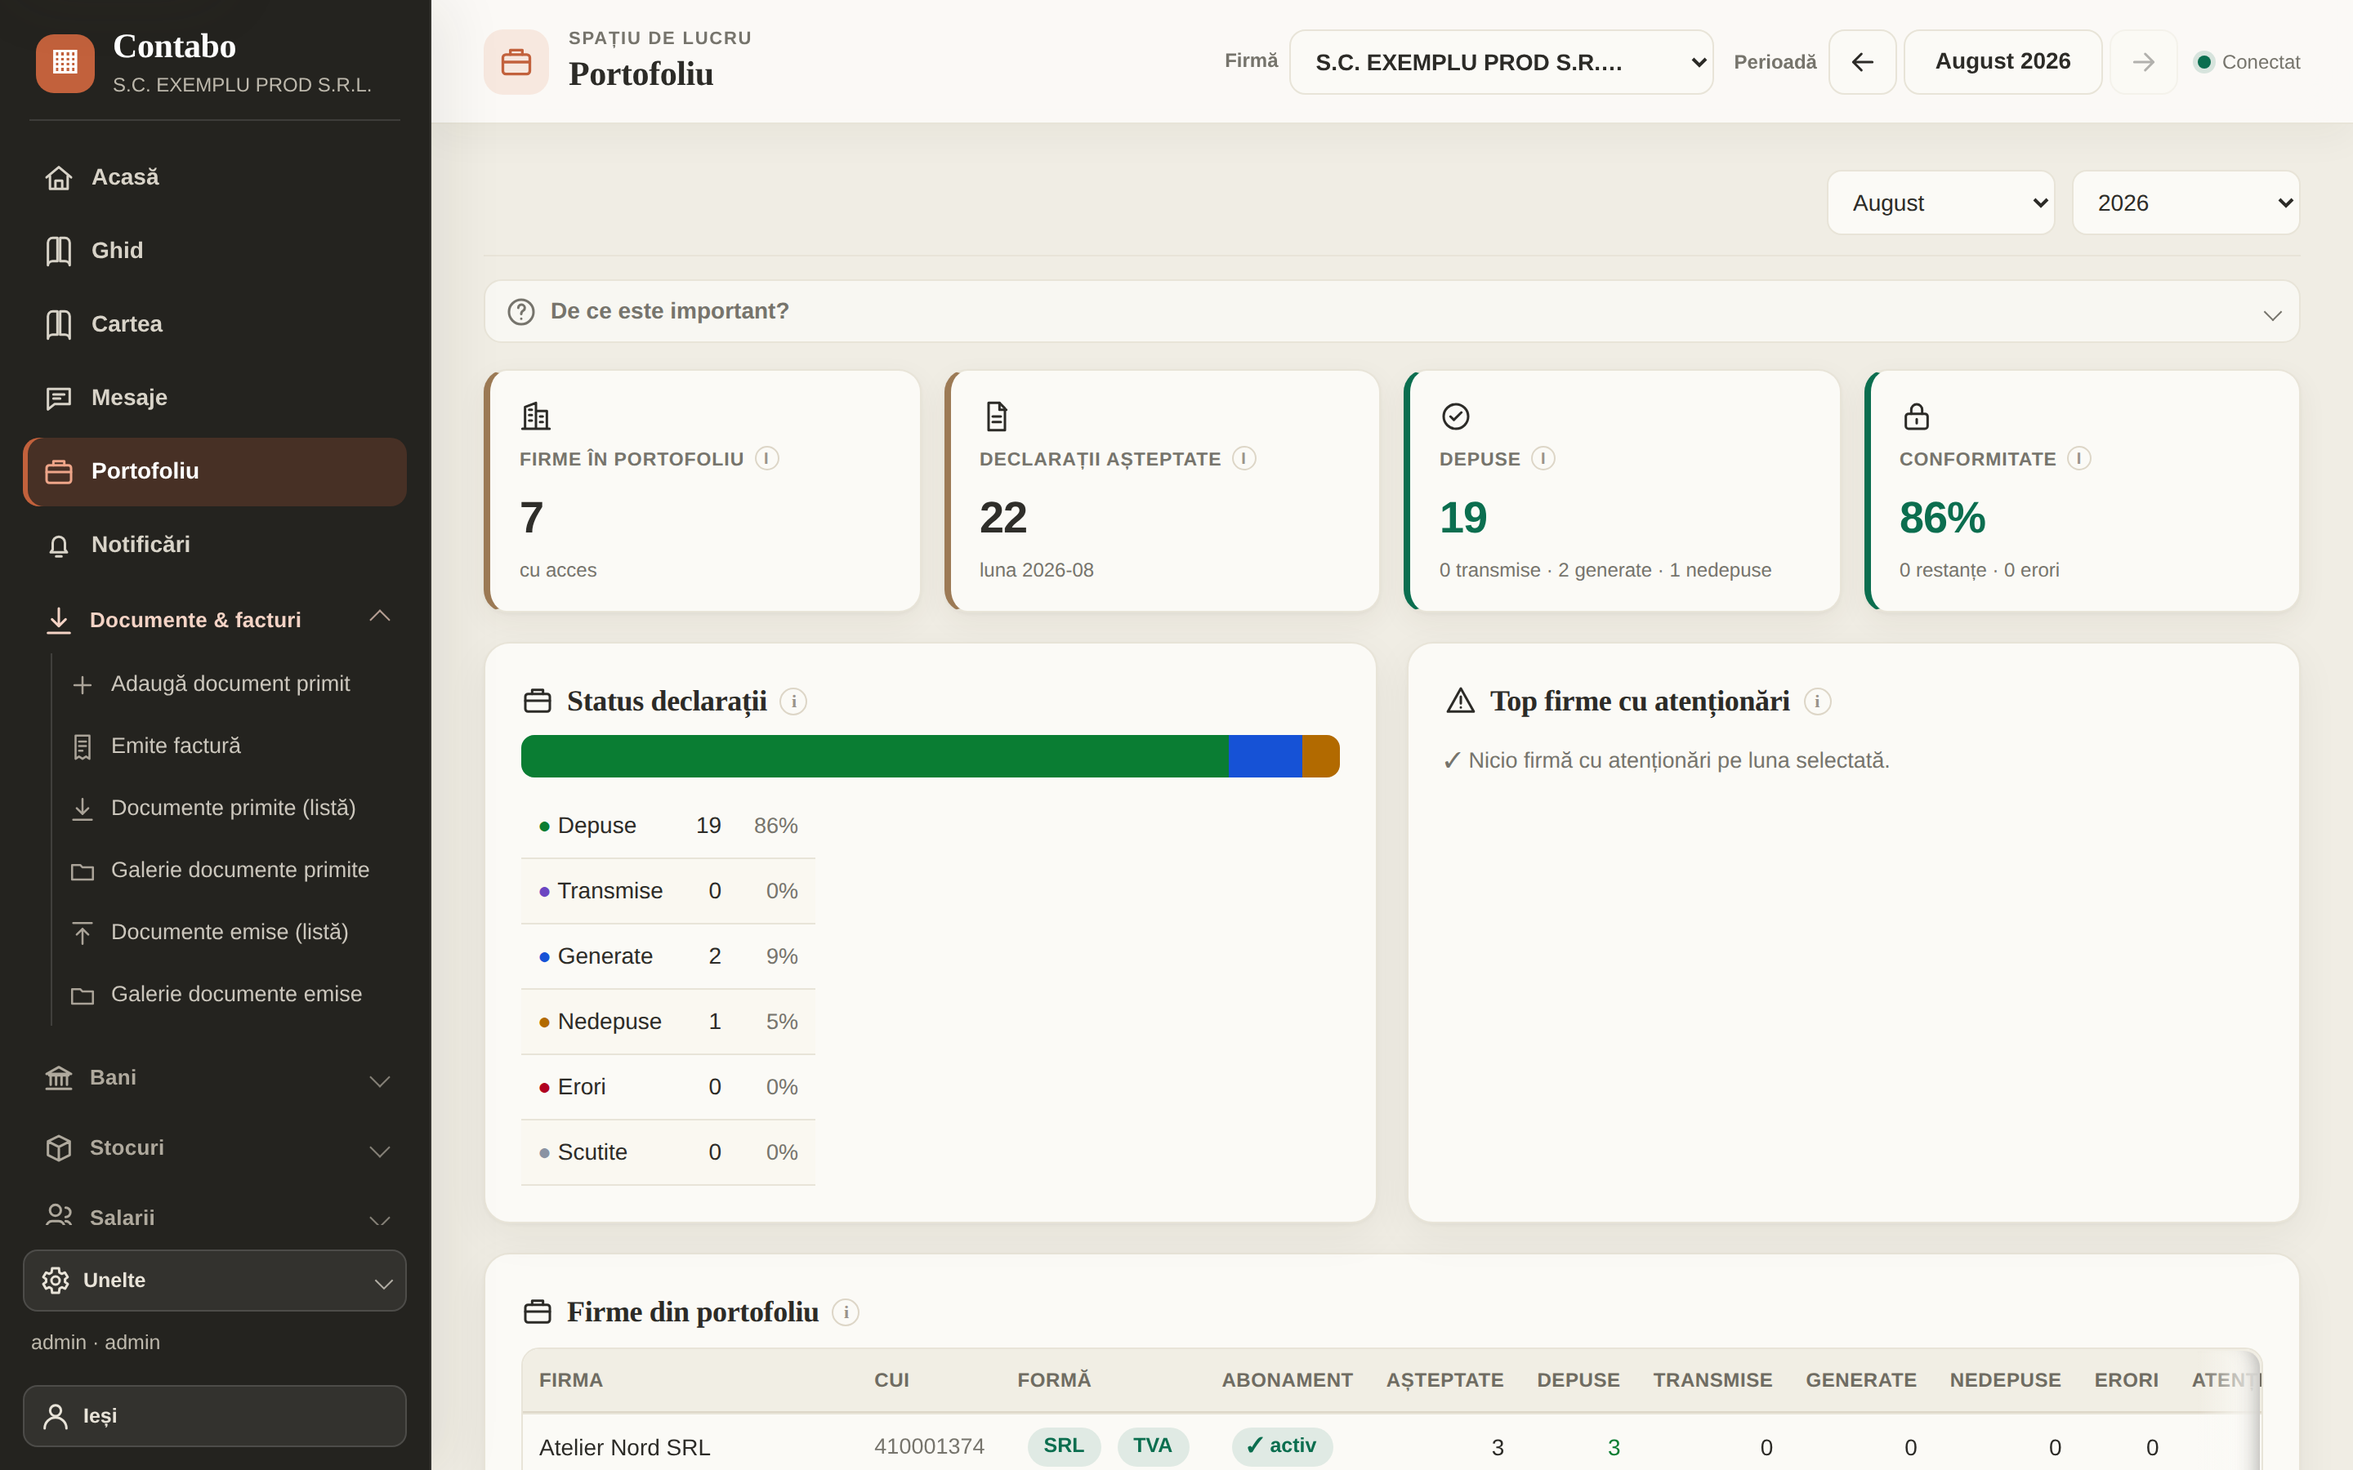
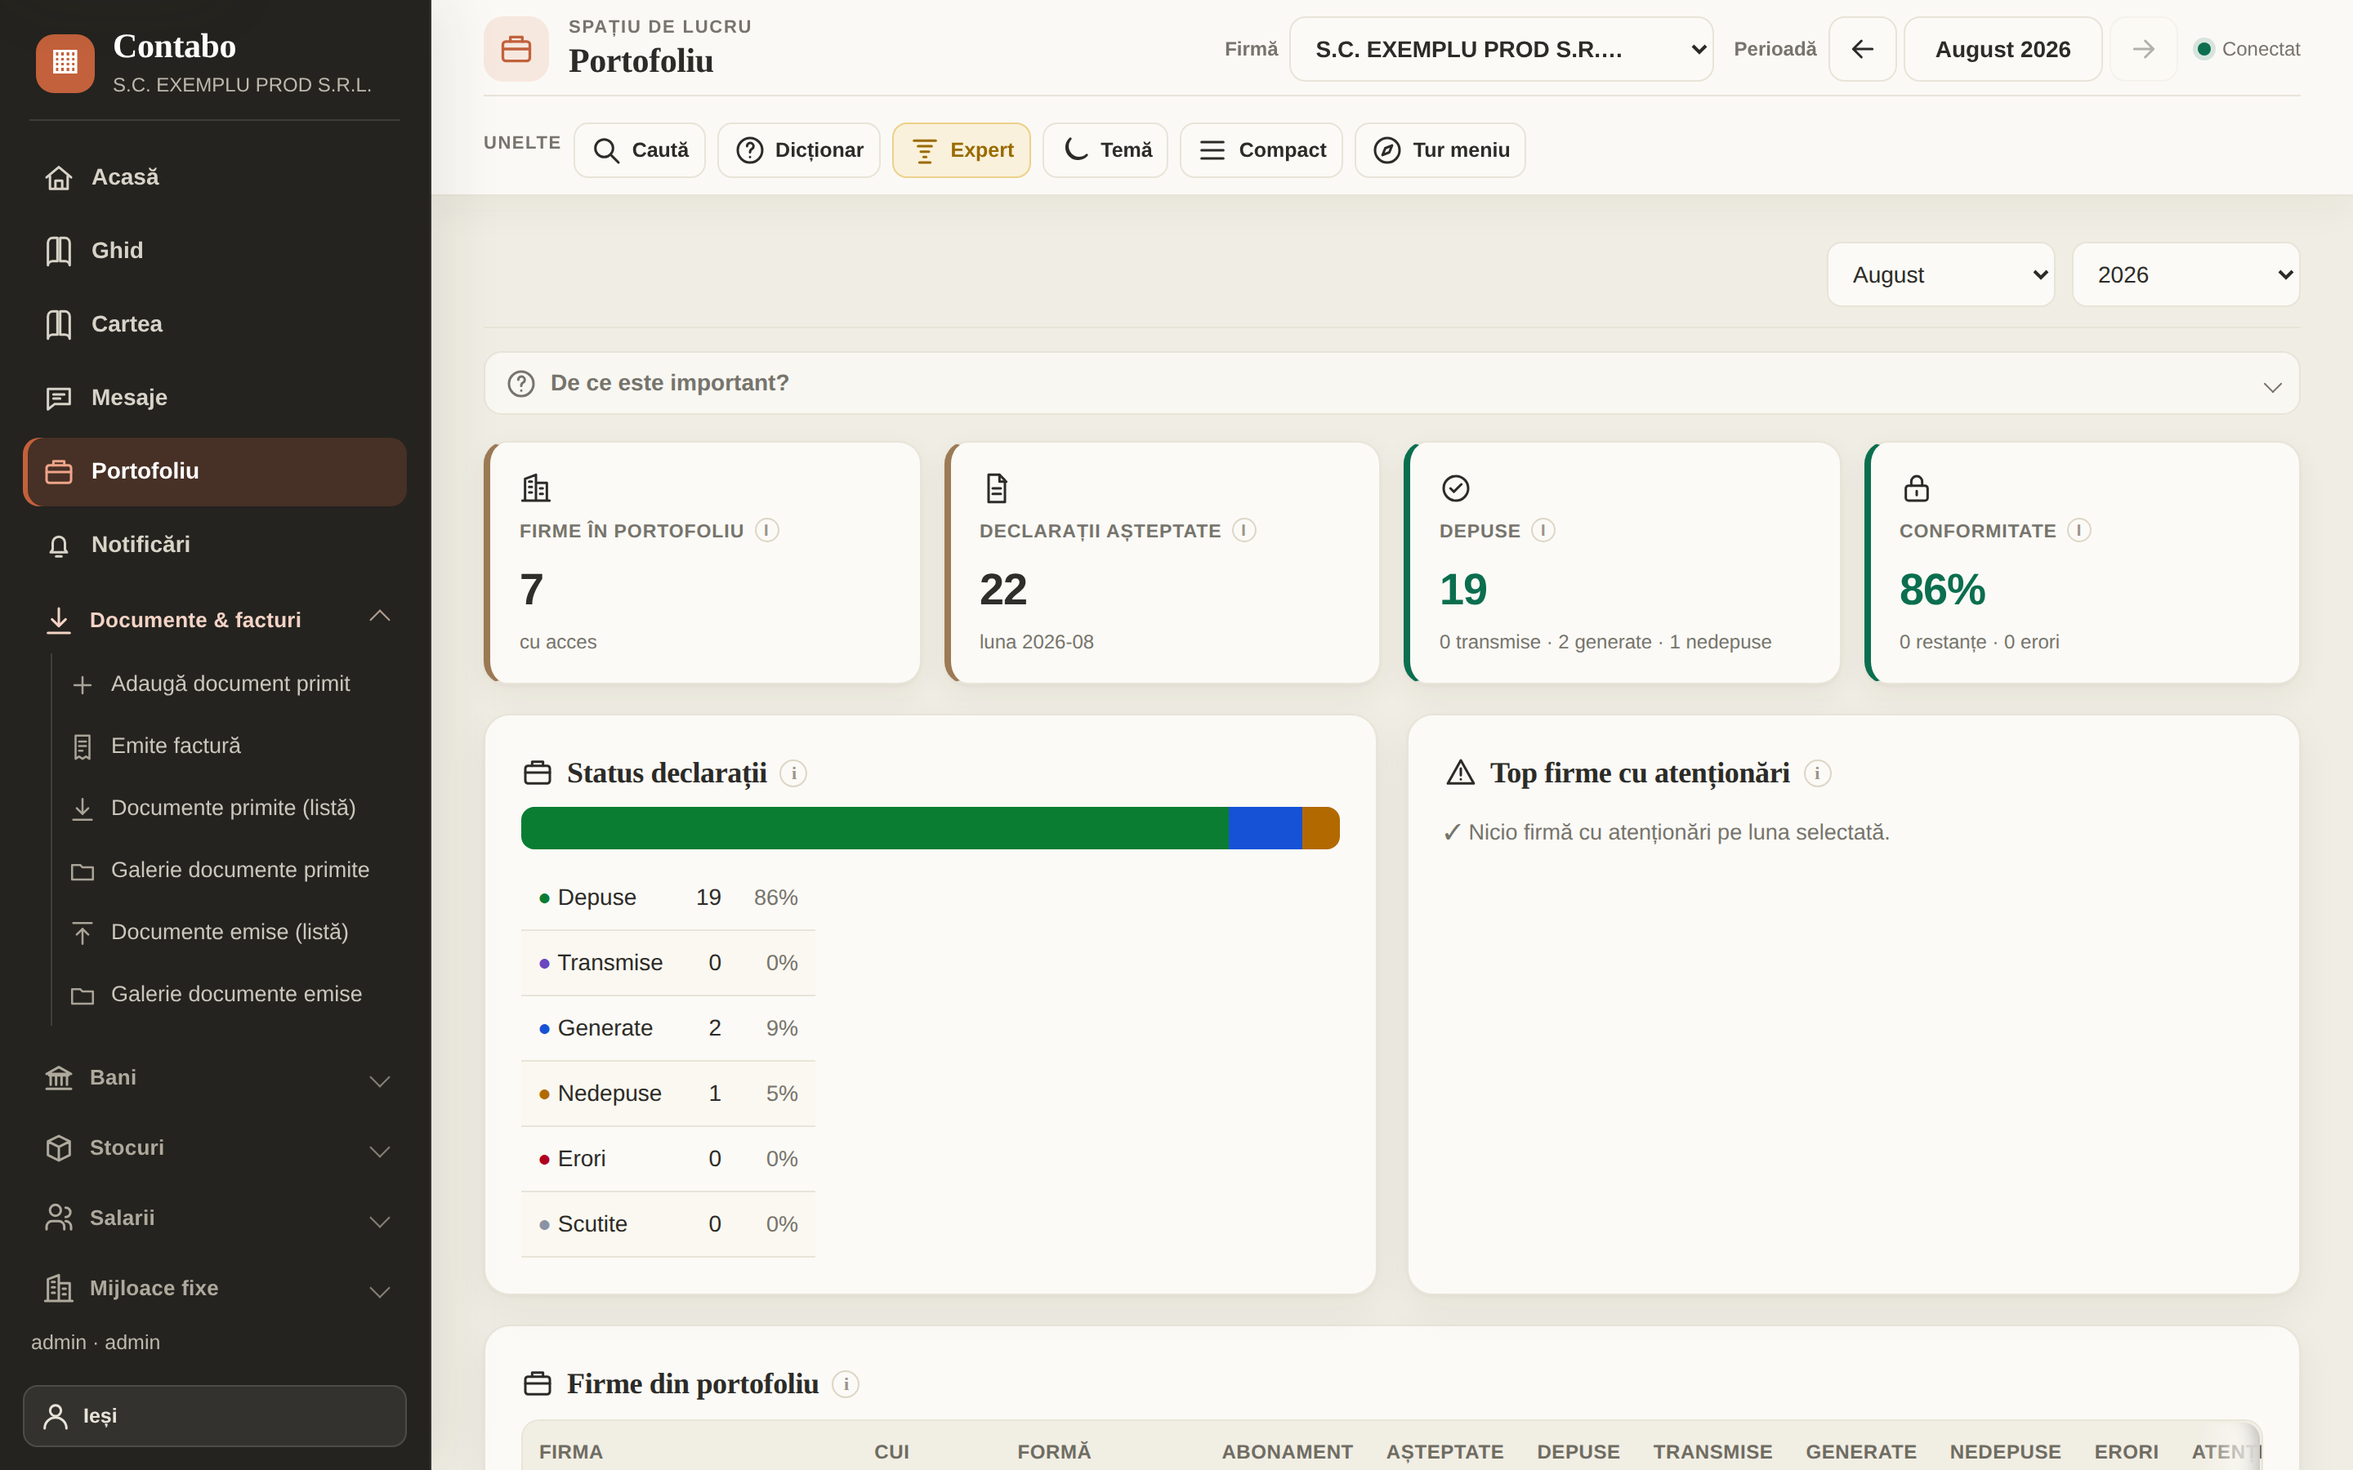
feat: move global tools to page header

diff --git a/public/erp.css b/public/erp.css
@@ -216,17 +216,9 @@ body.erp #tabs .navhint { padding: 5px 12px; color: #8f897e; font-size: 12px; }
 body.erp.simple-ui #tabs .navgroup.adv { display: none !important; }
 body.erp.simple-ui #tabs .navmenu button.adv { display: none !important; }
 
-body.erp .topbar .side-tools {
-  order: 6;
-  display: none;
-  grid-template-columns: 1fr 1fr;
-  gap: 7px;
-  margin: 0;
-  padding-top: 7px;
-}
-body.erp .topbar.tools-open .side-tools { display: grid; }
-body.erp .topbar .side-tools .btn,
-body.erp .topbar #toolsBtn,
+/* Până când erp.js mută uneltele în antetul contextual, nu le afișăm pentru o fracțiune de
+   secundă în bara laterală. Este același nod, nu o copie. */
+body.erp .topbar .side-tools { display: none; }
 body.erp .topbar #logoutBtn {
   display: inline-flex;
   align-items: center;
@@ -241,33 +233,7 @@ body.erp .topbar #logoutBtn {
   font-size: 12.5px;
   box-shadow: none;
 }
-body.erp .topbar .side-tools .btn:hover,
-body.erp .topbar #toolsBtn:hover,
 body.erp .topbar #logoutBtn:hover { color: #fff; background: rgba(255,255,255,.14); }
-body.erp .topbar .side-tools .btn.mod-expert {
-  color: #f0c14b;
-  background: rgba(240,193,75,.16);
-  border-color: rgba(240,193,75,.5);
-}
-body.erp .topbar .side-tools .btn.mod-expert:hover { background: rgba(240,193,75,.28); border-color: rgba(240,193,75,.75); }
-body.erp .topbar #toolsBtn {
-  order: 6;
-  display: inline-flex;
-  width: 100%;
-  margin-top: 5px;
-}
-body.erp .topbar #toolsBtn::after {
-  width: 7px;
-  height: 7px;
-  margin-left: auto;
-  border-right: 1.5px solid currentColor;
-  border-bottom: 1.5px solid currentColor;
-  content: "";
-  opacity: .7;
-  transform: rotate(45deg);
-  transition: transform .18s ease;
-}
-body.erp .topbar.tools-open #toolsBtn::after { transform: rotate(225deg); }
 body.erp .topbar #userBadge { order: 7; margin: 2px 5px 0; color: #bdb8ac; font-size: 12.5px; }
 body.erp .topbar #logoutBtn { order: 8; width: 100%; }
 body.erp #navToggleBtn,
@@ -289,9 +255,10 @@ body.erp .app-context {
   top: 0;
   z-index: 45;
   display: flex;
+  flex-wrap: wrap;
   align-items: center;
   justify-content: space-between;
-  gap: 24px;
+  gap: 8px 24px;
   min-height: var(--app-context-h);
   margin: 0 -32px 28px;
   padding: 10px 32px;
@@ -300,6 +267,58 @@ body.erp .app-context {
   box-shadow: 0 8px 22px rgba(45,39,29,.045);
   backdrop-filter: blur(14px);
 }
+/* Uneltele globale sunt un singur rând, sus pe ORICE pagină. Pe lățimi mici rândul se
+   derulează în el însuși, astfel încât toate acțiunile rămân accesibile fără să lățească pagina. */
+body.erp .app-context .side-tools {
+  order: 3;
+  display: flex;
+  flex: 1 0 100%;
+  align-items: center;
+  gap: 7px;
+  width: 100%;
+  min-width: 0;
+  margin: 0;
+  padding: 8px 0 0;
+  overflow-x: auto;
+  border-top: 1px solid var(--line);
+  scrollbar-color: color-mix(in srgb, var(--muted) 35%, transparent) transparent;
+  scrollbar-width: thin;
+}
+body.erp .app-context .side-tools-label {
+  flex: 0 0 auto;
+  color: var(--muted);
+  font-size: 11px;
+  font-weight: 750;
+  letter-spacing: .07em;
+  text-transform: uppercase;
+}
+body.erp .app-context .side-tools .btn {
+  display: inline-flex;
+  flex: 0 0 auto;
+  align-items: center;
+  justify-content: center;
+  gap: 6px;
+  min-height: 34px;
+  padding: 6px 9px;
+  color: var(--ink);
+  background: var(--card);
+  border: 1px solid var(--line);
+  border-radius: 9px;
+  font-size: 12.5px;
+  white-space: nowrap;
+  box-shadow: none;
+}
+body.erp .app-context .side-tools .btn:hover {
+  color: var(--app-clay);
+  background: color-mix(in srgb, var(--app-clay) 8%, var(--card));
+  border-color: color-mix(in srgb, var(--app-clay) 45%, var(--line));
+}
+body.erp .app-context .side-tools .btn.mod-expert {
+  color: #9a6b00;
+  background: color-mix(in srgb, #f0c14b 16%, var(--card));
+  border-color: color-mix(in srgb, #f0c14b 55%, var(--line));
+}
+body.dark.erp .app-context .side-tools .btn.mod-expert { color: #f0c14b; }
 body.erp .app-context-title { display: flex; align-items: center; gap: 12px; min-width: 160px; }
 body.erp .app-context-icon {
   width: 40px;
@@ -462,27 +481,8 @@ body.erp.compact h3 { font-size: 18px; }
     background: rgba(255,255,255,.09);
     border-color: rgba(255,255,255,.18);
   }
-  body.erp .topbar #toolsBtn {
-    order: 3;
-    display: inline-flex;
-    width: auto;
-    margin-top: 0;
-    min-height: 38px;
-    color: #fff;
-    background: rgba(255,255,255,.09);
-    border-color: rgba(255,255,255,.18);
-  }
-  body.erp .topbar #toolsBtn::after { display: none; }
-  body.erp .topbar .side-tools {
-    order: 6;
-    display: none;
-    grid-template-columns: repeat(2,minmax(0,1fr));
-    width: 100%;
-  }
-  body.erp .topbar.tools-open .side-tools { display: grid; }
-  body.erp .topbar:not(.tools-open) #userBadge,
-  body.erp .topbar:not(.tools-open) #logoutBtn { display: none; }
-  body.erp .topbar #logoutBtn { order: 8; width: auto; }
+  body.erp .topbar #userBadge { display: none; }
+  body.erp .topbar #logoutBtn { order: 3; width: auto; }
 
   /* Același arbore de navigație ca pe desktop, deschis ca sertar sub antet. */
   body.erp .topbar.nav-open #tabs {
@@ -552,13 +552,6 @@ body.erp.compact h3 { font-size: 18px; }
 /* La limita minimă suportată, firma și perioada primesc fiecare rândul ei.
    Altfel selectorul firmei rămâne cu aproximativ 90px și devine indescifrabil. */
 @media (max-width: 360px) {
-  body.erp .topbar #toolsBtn {
-    width: 40px;
-    min-width: 40px;
-    padding: 0;
-    gap: 0;
-  }
-  body.erp .topbar #toolsBtn .control-label { display: none; }
   body.erp .app-context-controls { grid-template-columns: minmax(0,1fr); }
   body.erp .app-context-field,
   body.erp .app-context .curgroup { width: 100%; }

diff --git a/public/index.html b/public/index.html
@@ -309,16 +309,17 @@
     <!-- Pe telefon se deschide ACELAȘI arbore #tabs într-un sertar. Nu există o a doua listă
          scurtată de destinații și nici o ierarhie mobilă întreținută separat. -->
     <button id="navToggleBtn" class="btn small" type="button" aria-expanded="false" aria-controls="tabs">☰ Meniu</button>
-    <!-- Cele șase utilitare se strâng separat: sunt preferințe și ajutor, nu navigație. -->
-    <button id="toolsBtn" class="btn small" type="button" aria-expanded="false" aria-controls="sideTools" aria-label="Unelte" title="Unelte: căutare, dicționar, mod simplu, temă">⋯ <span class="control-label">Unelte</span></button>
-    <div class="side-tools" id="sideTools">
+    <!-- Acțiunile globale sunt mutate, fără clonare, în antetul contextual construit de erp.js.
+         Astfel apar sus pe fiecare pagină, iar bara laterală rămâne exclusiv pentru navigație. -->
+    <nav class="side-tools" id="sideTools" aria-label="Unelte rapide">
+      <span class="side-tools-label">Unelte</span>
       <button id="paletaBtn" class="btn small" title="Caută în aplicație — clienți, facturi, pagini (Ctrl+K)">🔎 Caută</button>
       <button id="glossaryBtn" class="btn small" title="Dicționar contabil — termenii aplicației explicați pe înțelesul tuturor">❓ Dicționar</button>
       <button id="uiModeBtn" class="btn small" title="Mod simplu: ascunde partea tehnic-contabilă din meniu (balanță, registre, plan de conturi, închideri). Contabilitatea rulează neschimbată în fundal. Mod expert: totul vizibil.">🎓</button>
       <button id="themeBtn" class="btn small" title="Comută tema (clar / întunecat)">🌙</button>
       <button id="densityBtn" class="btn small" title="Comută densitatea afișării">⊟ Compact</button>
       <button id="tourBtn" class="btn small" title="Turul meniului — îți arată în câțiva pași cum e organizată aplicația">🧭 Tur meniu</button>
-    </div>
+    </nav>
     <span id="userBadge" class="userbadge"></span>
     <button id="logoutBtn" class="btn small">Ieși</button>
     <nav class="tabs" id="tabs" aria-label="Meniu principal">

diff --git a/public/simplemode.js b/public/simplemode.js
@@ -108,38 +108,6 @@ export function initUiMode() {
   const simpluImplicit = USER && (USER.tip === 'necontabil' || USER.tip === 'tester') && USER.role !== 'admin';
   applyUiMode(saved || (simpluImplicit ? 'simplu' : 'expert'));
 }
-// Același panou de unelte se strânge pe desktop și mobil. Butoanele nu se mută din DOM,
-// deci își păstrează ascultătorii și permisiunile. Se închide după alegere, navigare sau Escape.
-function inchideUnelte(restaureazaFocus = false) {
-  const bara = document.querySelector('.topbar');
-  const buton = $('#toolsBtn');
-  if (!bara || !buton) return;
-  const eraDeschis = bara.classList.contains('tools-open');
-  bara.classList.remove('tools-open');
-  buton.setAttribute('aria-expanded', 'false');
-  if (eraDeschis && restaureazaFocus) buton.focus();
-}
-$('#toolsBtn') && $('#toolsBtn').addEventListener('click', () => {
-  const bara = document.querySelector('.topbar');
-  // Meniul și uneltele folosesc același spațiu pe telefon; nu se pot suprapune.
-  bara.classList.remove('nav-open');
-  document.body.classList.remove('mobile-nav-open');
-  const navToggle = $('#navToggleBtn');
-  if (navToggle) navToggle.setAttribute('aria-expanded', 'false');
-  const deschis = bara.classList.toggle('tools-open');
-  $('#toolsBtn').setAttribute('aria-expanded', String(deschis));
-});
-$('#sideTools') && $('#sideTools').addEventListener('click', (e) => {
-  if (!e.target.closest('button')) return;
-  inchideUnelte();
-});
-$('#tabs') && $('#tabs').addEventListener('click', (e) => {
-  if (e.target.closest('button[data-tab], a.navlink')) inchideUnelte();
-});
-document.addEventListener('keydown', (e) => {
-  if (e.key === 'Escape' && document.querySelector('.topbar')?.classList.contains('tools-open')) inchideUnelte(true);
-});
-
 $('#uiModeBtn') && $('#uiModeBtn').addEventListener('click', () => {
   const mode = document.body.classList.contains('simple-ui') ? 'expert' : 'simplu';
   try { localStorage.setItem(uiModeKey(), mode); } catch (e) { /* privat */ }

diff --git a/public/erp.js b/public/erp.js
@@ -137,7 +137,7 @@
   function numeIcon(nod, simbol) {
     if (nod.dataset && nod.dataset.tab && TAB_ICONS[nod.dataset.tab]) return TAB_ICONS[nod.dataset.tab];
     if (nod.dataset && nod.dataset.go && TAB_ICONS[nod.dataset.go]) return TAB_ICONS[nod.dataset.go];
-    var byId = { paletaBtn: 'search', glossaryBtn: 'help', uiModeBtn: 'mode', themeBtn: 'theme', densityBtn: 'density', tourBtn: 'compass', navToggleBtn: 'menu', toolsBtn: 'settings', logoutBtn: 'user', prevMonth: 'arrowLeft', nextMonth: 'arrowRight' };
+    var byId = { paletaBtn: 'search', glossaryBtn: 'help', uiModeBtn: 'mode', themeBtn: 'theme', densityBtn: 'density', tourBtn: 'compass', navToggleBtn: 'menu', logoutBtn: 'user', prevMonth: 'arrowLeft', nextMonth: 'arrowRight' };
     if (byId[nod.id]) return byId[nod.id];
     // Un simbol necunoscut rămâne text. Fallback-ul paginii se aplică numai
     // titlurilor fără simbol, nu înlocuiește aproximativ conținutul existent.
@@ -237,6 +237,11 @@
     conexiune.setAttribute('role', 'status');
     controls.appendChild(conexiune);
     bar.appendChild(controls);
+
+    // Un singur set de controale globale, mutat în antetul comun tuturor paginilor. Mutarea
+    // păstrează listener-ele deja legate și evită două versiuni care ar putea avea stări diferite.
+    var unelte = $('#sideTools');
+    if (unelte) bar.appendChild(unelte);
     main.insertBefore(bar, main.firstChild);
   }
 
@@ -329,9 +334,6 @@
 
     comutator.addEventListener('click', function () {
       var deschide = !bara.classList.contains('nav-open');
-      bara.classList.remove('tools-open');
-      var unelte = $('#toolsBtn');
-      if (unelte) unelte.setAttribute('aria-expanded', 'false');
       bara.classList.toggle('nav-open', deschide);
       document.body.classList.toggle('mobile-nav-open', deschide);
       comutator.setAttribute('aria-expanded', String(deschide));

diff --git a/public/u.css b/public/u.css
@@ -67,8 +67,8 @@
 [data-u="u63"]{width:min(860px,94vw);max-height:92vh;overflow:auto}
 [data-u="u64"]{width:100%;margin:12px 0 4px}
 [data-u="u65"]{font-size:11.5px;margin-top:12px;text-align:center}
-/* u66 eliminat: butoanele utilitare din bara laterala au acum o clasa semantica in styles.css
-   (.topbar .side-tools .btn / #logoutBtn) — vezi „Butoane utilitare pe fundal inchis". */
+/* u66 eliminat: butoanele utilitare din antetul contextual și ieșirea din bara laterală
+   au clase semantice în erp.css, nu reguli generate din atribute. */
 [data-u="u67"]{background:#8f1d2c;color:#fff;padding:10px 18px;text-align:center;font-size:14px}
 [data-u="u68"]{margin-left:10px;background:#fff;color:#8f1d2c;font-weight:700}
 [data-u="u69"]{margin:2px 0 10px}

diff --git a/public/sw.js b/public/sw.js
@@ -11,7 +11,7 @@
 //     `no-cache`-ul serverului = actualizari instant la deploy); cache-ul e doar plasa de offline.
 //  3. Doar GET, doar same-origin. Versiune in numele cache-ului -> activate sterge ce e vechi.
 
-const CACHE = 'contab-shell-v24';
+const CACHE = 'contab-shell-v25';
 const SHELL = ['/', '/styles.css', '/u.css', '/erp.css', '/design-system.css', '/erp.js', '/formflow.js', '/core.js', '/app.js', '/manifest.webmanifest'];
 const BYPASS = /^\/(api|pdf|xml|csv|efactura)(\/|$|\?)/;
 
